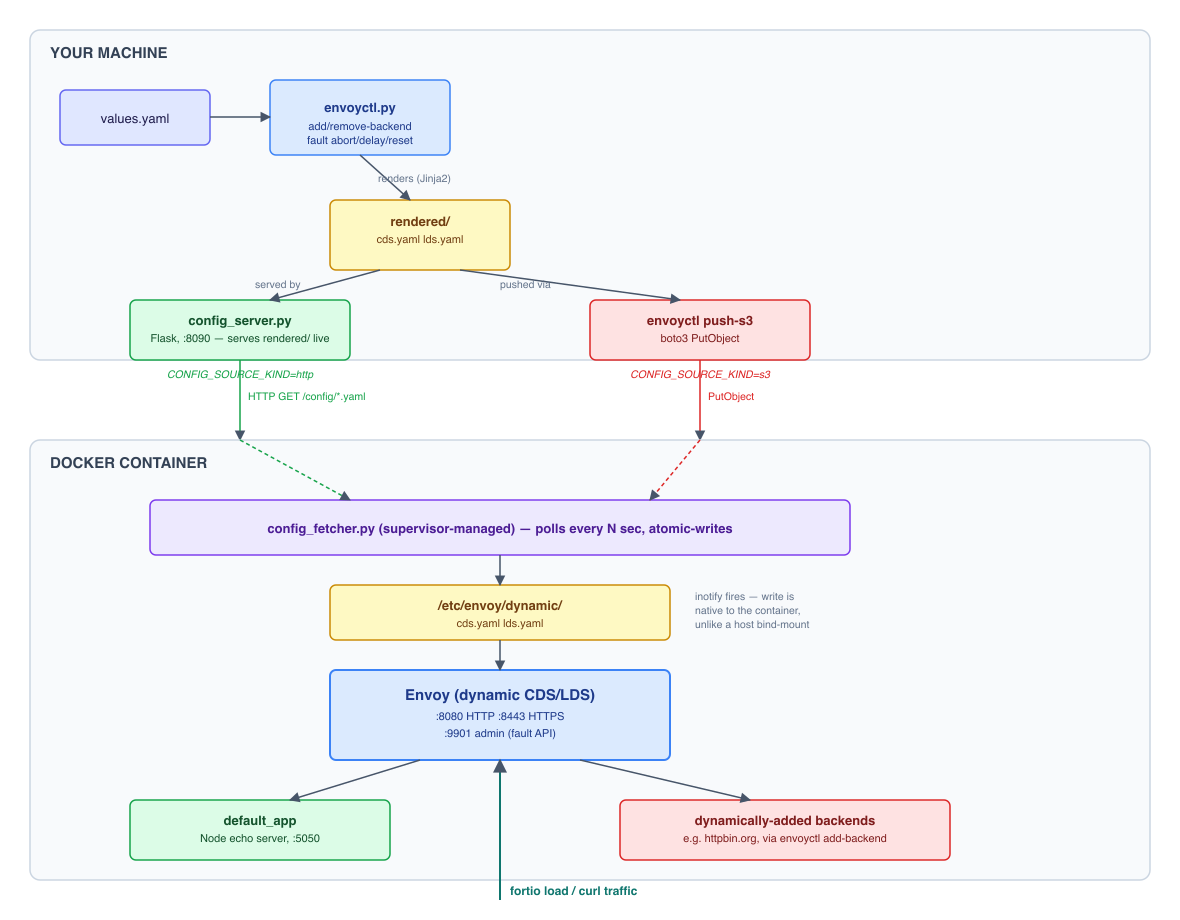
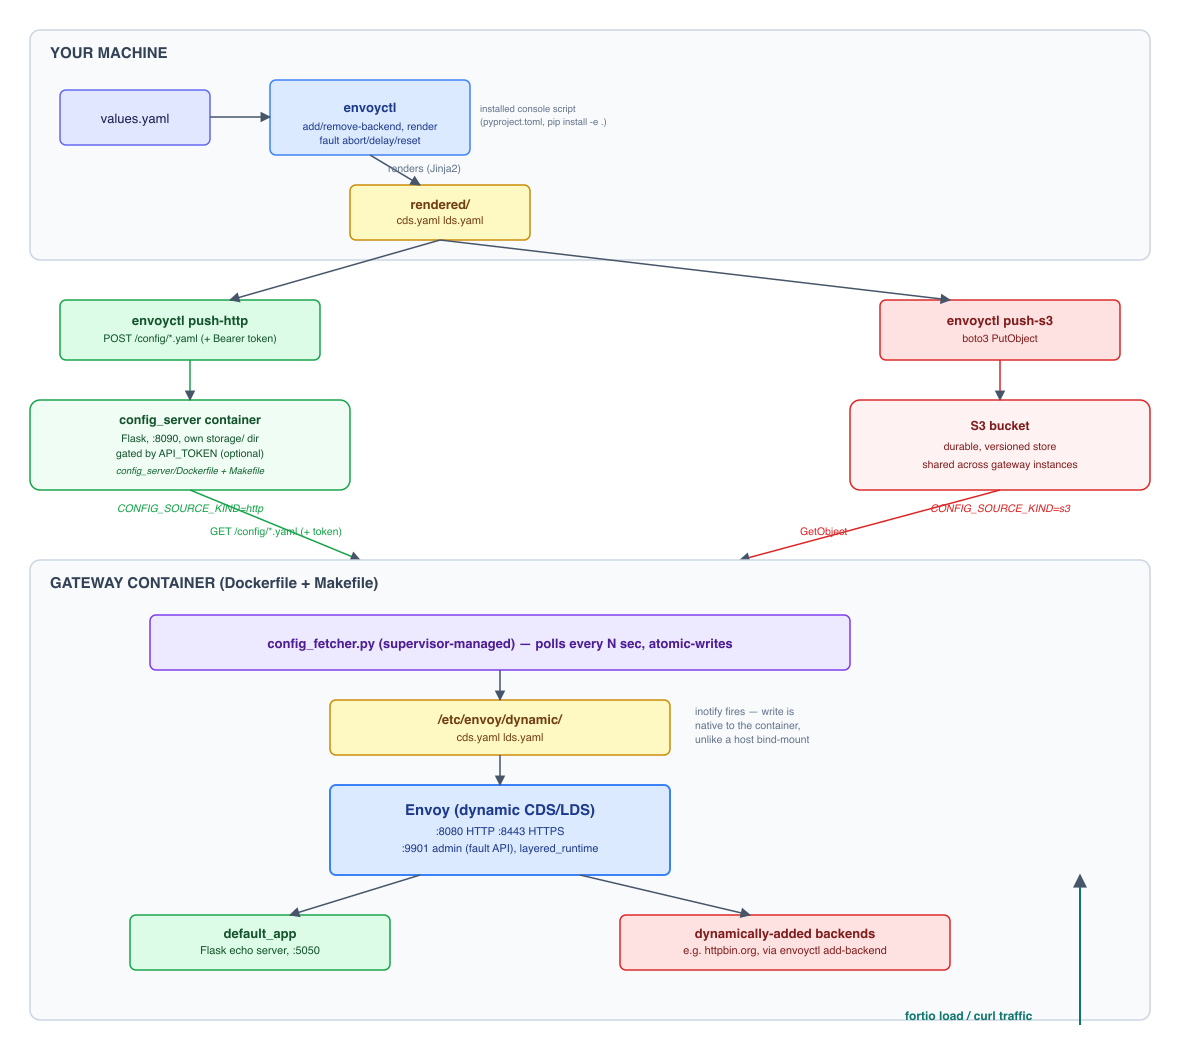
Add CI workflows, migrate default_app to Flask, regenerate architecture diagram
- GitHub Actions workflows to build/push both Docker images (gateway,
  config_server), path-filtered so each only rebuilds on its own changes
- envoyctl gains a `render` command (needed for CI to produce rendered/
  before `docker build`, since it's gitignored)
- default_app replaced Node/app.js with a Flask echo server, dropping the
  nodejs dependency from the gateway Dockerfile
- architecture.png regenerated to reflect the installed envoyctl package,
  explicit push-http/push-s3 paths, and the containerized config_server

diff --git a/app.py b/app.py
@@ -1,0 +1,31 @@
+#!/usr/bin/env python3
+"""Default echo backend: returns request metadata as JSON. Used as
+`default_app` in cds.yaml.j2/lds.yaml.j2 - the catch-all cluster any route
+without a more specific backend falls through to."""
+import sys
+
+from flask import Flask, jsonify, request
+
+app = Flask(__name__)
+
+
+@app.route("/", defaults={"path": ""}, methods=["GET", "POST", "PUT", "DELETE", "PATCH"])
+@app.route("/<path:path>", methods=["GET", "POST", "PUT", "DELETE", "PATCH"])
+def echo(path):
+    request_data = {
+        "remote_ip": request.remote_addr,
+        "method": request.method,
+        "path": "/" + path,
+        "headers": dict(request.headers),
+        "query": request.query_string.decode() or None,
+        "body": request.get_data(as_text=True),
+    }
+    print(f"[app.py:{sys.argv[1]}] {request_data}", flush=True)
+    return jsonify({"ok": "true", "request": request_data})
+
+
+if __name__ == "__main__":
+    if len(sys.argv) <= 1:
+        print("Requires port number")
+        sys.exit(1)
+    app.run(host="0.0.0.0", port=int(sys.argv[1]))

diff --git a/envoyctl/cli.py b/envoyctl/cli.py
@@ -41,6 +41,14 @@ def cli():
     """envoy-perf-gateway control CLI"""
 
 
+@cli.command("render")
+def render_cmd():
+    """Render rendered/cds.yaml and lds.yaml from values.yaml without
+    changing any backend. `rendered/` is gitignored (generated), so this is
+    the step CI runs before `docker build` on a fresh checkout."""
+    regenerate()
+
+
 @cli.command("add-backend")
 @click.option("--name", required=True, help="Cluster name, must be unique")
 @click.option("--host", required=True, help="Upstream host/IP")

diff --git a/README.md b/README.md
@@ -144,7 +144,7 @@ envoyctl remove-backend --name httpbin
 wiring a route (e.g. if you'll reference it from a hand-edited route later).
 Requests are matched with a path prefix and rewritten to `/` on the
 upstream. Everything not matched by a backend route falls through to the
-`default_app` cluster (the bundled Node.js echo server on :5050).
+`default_app` cluster (the bundled Flask echo server on :5050).
 
 ## Fault injection
 
